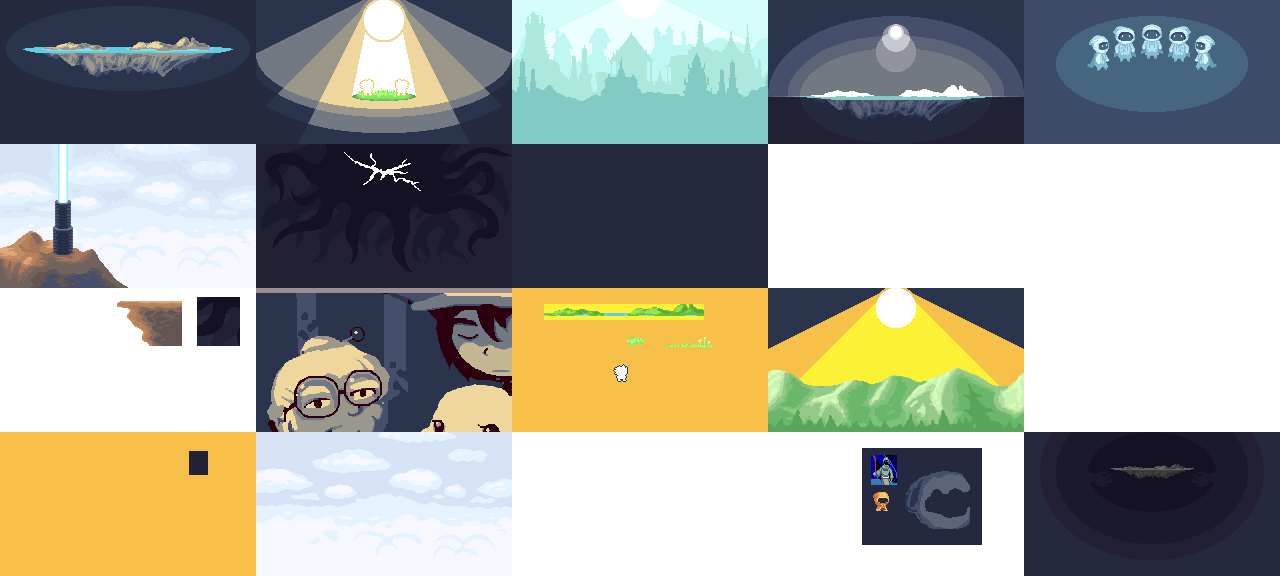
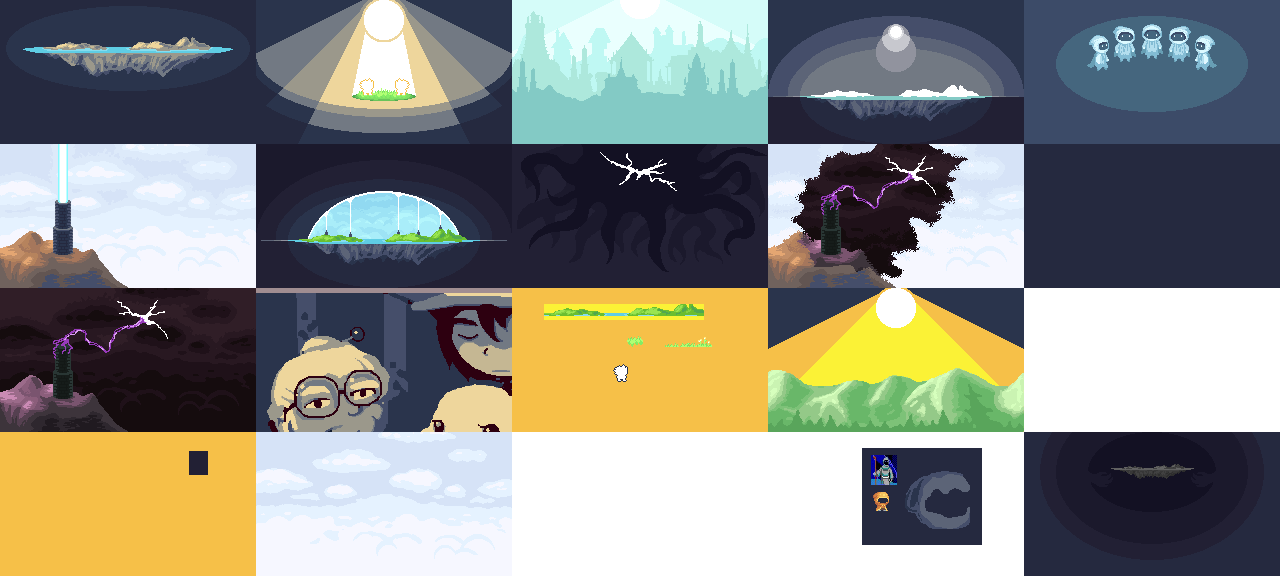
story

Changed region(s): [[0.2188, 0.25, 1.0, 0.5], [0.0, 0.5, 0.2188, 0.75]]

diff --git a/Leore/Main/MessageBox.cs b/Leore/Main/MessageBox.cs
@@ -6,6 +6,7 @@ using SPG.Draw;
 using SPG.Objects;
 using System;
 using System.Collections.Generic;
+using System.Diagnostics;
 using System.Linq;
 
 namespace Leore.Main
@@ -44,6 +45,8 @@ namespace Leore.Main
 
         public enum MessageState { FADE_IN, SHOW, FADE_OUT }
         protected MessageState state;
+
+        float cursorAlpha = 0;
 
         private List<string> CutString(string str, int maxWidth)
         {
@@ -294,7 +297,7 @@ namespace Leore.Main
         public override void Update(GameTime gameTime)
         {
             base.Update(gameTime);
-            
+
             if (hiColor != null)
                 font.HighlightColor = (Color)hiColor;
 
@@ -313,7 +316,7 @@ namespace Leore.Main
             //    kNextPressed = input.IsButtonPressed(Buttons.B) || input.IsButtonPressed(Buttons.A) || input.IsButtonPressed(Buttons.Start);
             //    kAny = input.IsAnyButtonPressed();
             //}
-            
+
             if (kNextPressed)
             {
                 if (page == texts.Count - 1)
@@ -333,15 +336,16 @@ namespace Leore.Main
 
                     page = Math.Min(page + 1, texts.Count - 1);
                 }
-            } else if (kAny)
+            }
+            else if (kAny)
             {
                 if (textSpeed == TextSpeed.NORMAL)
                     timeOut = 0;
                 else
                 {
                     if (timeOut > 0)
-                        timeOut --;
-                }                
+                        timeOut--;
+                }
             }
 
             timeOut = Math.Max(timeOut - 1, 0);
@@ -361,10 +365,12 @@ namespace Leore.Main
                     }
                 }
 
-                timeOut = (int)textSpeed;                
+                timeOut = (int)textSpeed;
             }
-            
-            sin = (float)((sin + .1) % (2 * Math.PI));            
+
+            sin = (float)((sin + .1) % (2 * Math.PI));
+
+            cursorAlpha = (curText.Length == texts[page].Length) ? Math.Min(cursorAlpha + .02f, 1) : 0;
         }
 
         public virtual void DrawActionIcons(SpriteBatch sb)
@@ -372,17 +378,21 @@ namespace Leore.Main
             var T = Globals.T;
             var z = (float)Math.Sin(sin);
 
+            int ca = (int)(((float)Color.A) * cursorAlpha);
+
+            var cursorColor = new Color(Color, ca);
+            
             if (page == 0 && texts.Count > 1)
             {
-                sb.Draw(Texture, Position + new Vector2(RoomCamera.Current.ViewWidth - 2 * T, 2 * T + z), new Rectangle(1 * T, 3 * T, T, T), Color, 0, Vector2.Zero, Vector2.One, SpriteEffects.None, Depth + .001f);
+                sb.Draw(Texture, Position + new Vector2(RoomCamera.Current.ViewWidth - 2 * T, 2 * T + z), new Rectangle(1 * T, 3 * T, T, T), cursorColor, 0, Vector2.Zero, Vector2.One, SpriteEffects.None, Depth + .001f);
             }
             else if (page < texts.Count - 1)
             {
-                sb.Draw(Texture, Position + new Vector2(RoomCamera.Current.ViewWidth - 2 * T, 2 * T + z), new Rectangle(1 * T, 3 * T, T, T), Color, 0, Vector2.Zero, Vector2.One, SpriteEffects.None, Depth + .001f);
+                sb.Draw(Texture, Position + new Vector2(RoomCamera.Current.ViewWidth - 2 * T, 2 * T + z), new Rectangle(1 * T, 3 * T, T, T), cursorColor, 0, Vector2.Zero, Vector2.One, SpriteEffects.None, Depth + .001f);
             }
             else
             {
-                sb.Draw(Texture, Position + new Vector2(RoomCamera.Current.ViewWidth - 2 * T, 2 * T + z), new Rectangle(2 * T, 3 * T, T, T), Color, 0, Vector2.Zero, Vector2.One, SpriteEffects.None, Depth + .001f);
+                sb.Draw(Texture, Position + new Vector2(RoomCamera.Current.ViewWidth - 2 * T, 2 * T + z), new Rectangle(2 * T, 3 * T, T, T), cursorColor, 0, Vector2.Zero, Vector2.One, SpriteEffects.None, Depth + .001f);
             }
         }
         

diff --git a/Leore/Main/StoryScene.cs b/Leore/Main/StoryScene.cs
@@ -47,7 +47,7 @@ namespace Leore.Main
             // ---- INTRO ----
 
             // 0:
-            texts.Add("In the beginning, ~Leore~ was a lifeless place, drifting through the void.");
+            texts.Add("In the beginning, ~Leore~ was a lifeless place, drifting through the [973bba]~Void~.");
             // 1:
             texts.Add("Then, the [f6c048]~sun, source of all energy~, came to be and created life.|" +
                 "Every living being is born as a child of the sun, holding part of it's energy within." +
@@ -56,20 +56,27 @@ namespace Leore.Main
             texts.Add("Eons passed and life was flourishing on ~Leore~. And so, in time, civilizations formed and thrived. " +
                 "|But eventually, it's peak was reached.");
             // 3:
-            texts.Add("The sun became weaker, drifting slowly away and the world would eventually face a cold dark death.");
+            texts.Add("The sun became weaker, drifting slowly away and ~Leore~ would eventually face a cold dark death.");
             // 4:
             texts.Add("There were the protectors of the world called ~Ancients~, who defied the apocalypse." +
                 "|They found a solution that should prevent the inevitable destiny of ~Leore~.");
             // 5:
-            texts.Add("The ~Ancients~ built ~towers~ across the world that would create a [5fcde4]~magic barrier~." +
-                "|This would hold together the fabric of the world and maintain [5fcde4]~balance~ for centuries.");
-            // 6:
-            texts.Add("Somehow, the [973bba]~Void~ still found a way to breach the barrier." +
-                "|The towers were corrupted and the ~Ancients~ sealed away, unable tofight back.");
-            
-            // 7:
-            texts.Add("~Leore~ is under the threat of falling back into an era of eternal darkness..");
+            texts.Add("The ~Ancients~ built ~towers~ across the world that would create a vast magic barrier.");
 
+            // 6:
+            texts.Add("For centuries, this barrier would hold together the fabric of the world, protecting it from the [973bba]~Void~.");
+            // 7:
+            texts.Add("Eventually, the [973bba]~Void~ found a way to break through..");
+            
+            // 8:
+            texts.Add("Corrupted by the [973bba]~Void~, the ~towers~ turned from sacret sites into pinnacles of darkness.");
+
+            // 9
+            //texts.Add("If the corruption is not stopped, the barrier will give in and ~Leore~ will live to see the era of eternal darkness..");
+            texts.Add("...|" +
+                ".....|" +
+                "...wake up.");
+            
             // ---- ENDING 1 ----
 
             // 8:
@@ -87,6 +94,9 @@ namespace Leore.Main
         public override void Update(GameTime gameTime)
         {
             base.Update(gameTime);
+
+            // so window resizing happens properly
+            camera.SetTarget(this);
 
             switch (state)
             {
@@ -132,10 +142,7 @@ namespace Leore.Main
                 case StoryState.Hiding:
                     state = StoryState.FadeIn;
                     break;
-            }
-
-            // so window resizing happens properly
-            camera.SetTarget(this);
+            }            
         }
 
         public override void Draw(SpriteBatch sb, GameTime gameTime)

diff --git a/Leore/Main/TitleMenu.cs b/Leore/Main/TitleMenu.cs
@@ -77,7 +77,7 @@ namespace Leore.Main
             base.Update(gameTime);
 
             // TODO: remove
-            new StoryScene(0, 7).OnCompleted = () =>
+            new StoryScene(0, 9).OnCompleted = () =>
             {
                 GameManager.Current.ReloadLevel();
             };
